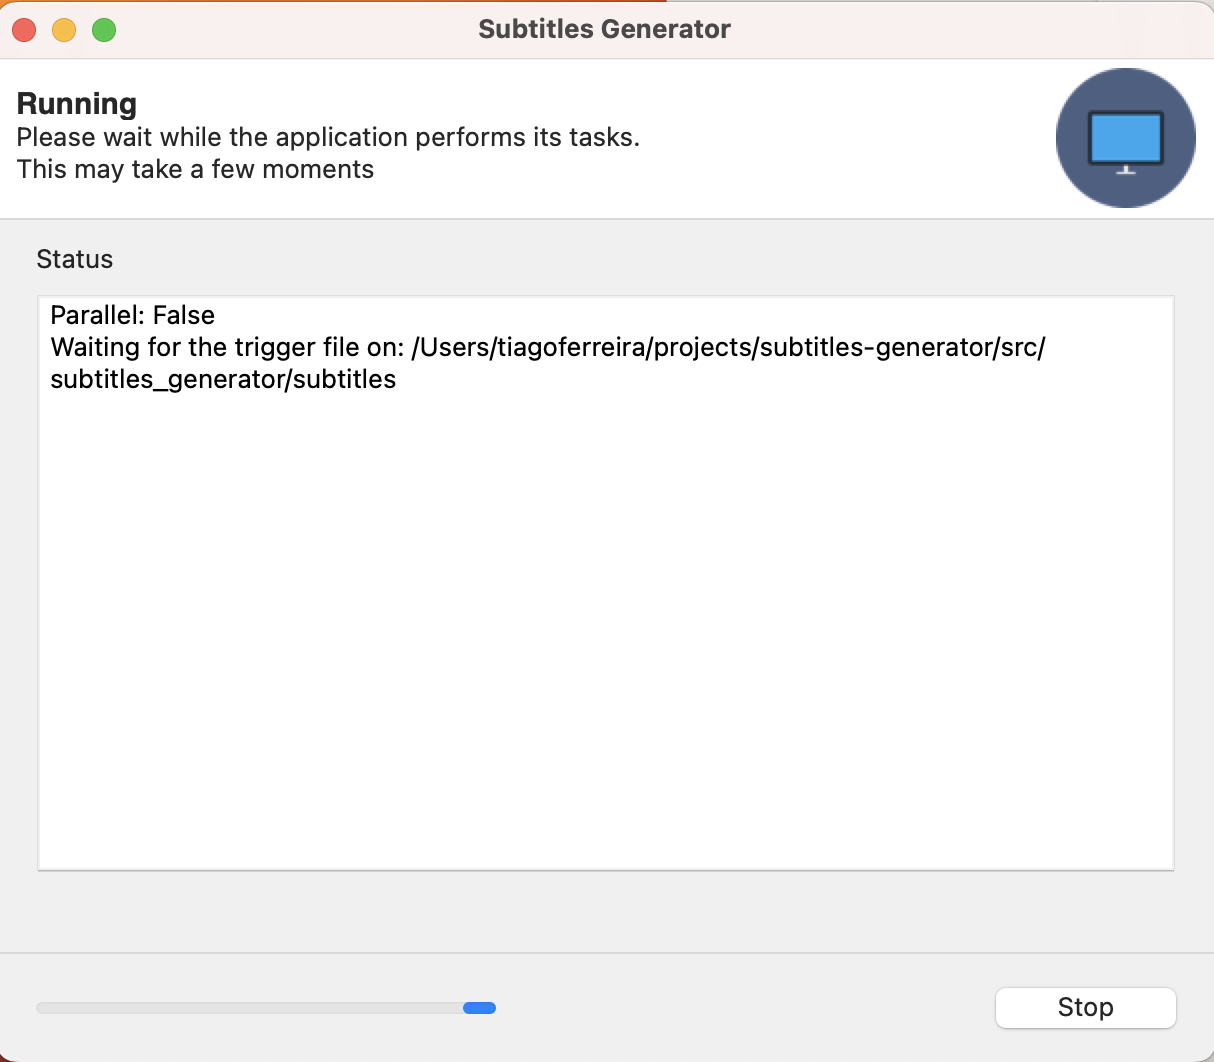
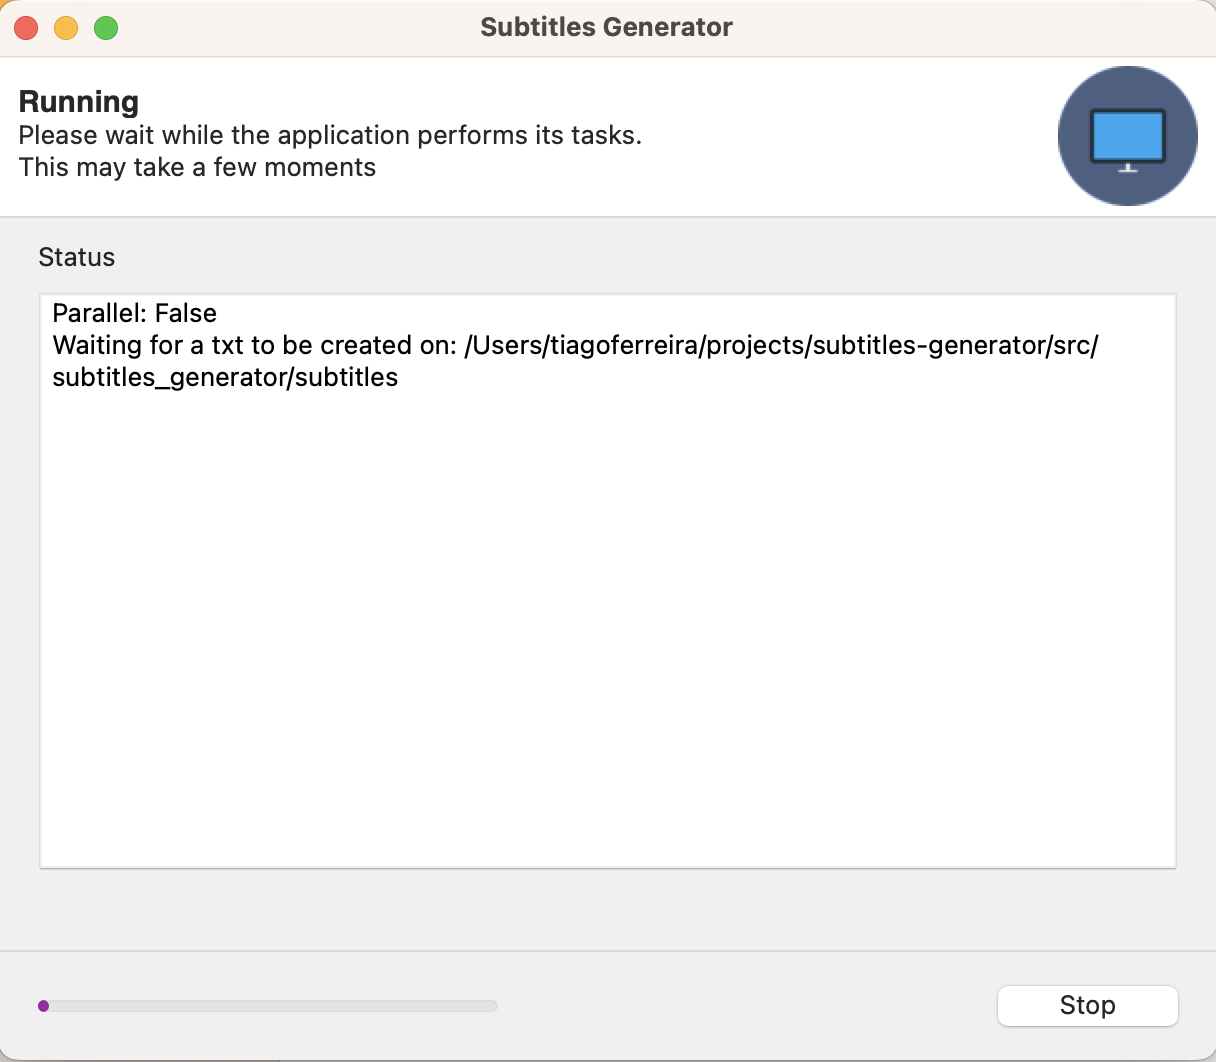
ReadMe and GUI updates / Added recursive flag

diff --git a/src/subtitles_generator/main.py b/src/subtitles_generator/main.py
@@ -2,6 +2,7 @@ import time
 import typer
 import os
 
+from faster_whisper.tokenizer import _LANGUAGE_CODES
 from pathlib import Path
 from watchdog.observers import Observer
 from thread import Handler
@@ -17,15 +18,29 @@ def call_event(
             file_trigger: str = typer.Argument(".txt", help="Trigger file extension"),
             file_type: str = typer.Argument("mp3", help="Type of file to watch"),
             parallel: bool = typer.Argument(False, help="Use processes to handle multiple files"),
-                ) -> None:
+            recursive: bool = typer.Argument(False, help="If events will be emitted for sub-directories traversed recursively")
+            )-> None:
+    
+    # Still doing these checks for users who don't use GUI
+    try:
+        directory = Path(directory)
+        if not directory.exists() or not directory.is_dir():
+            raise FileNotFoundError(f"The directory {directory} does not exist or is not a directory.")
+
+        if language not in _LANGUAGE_CODES:
+            raise ValueError(f"Language '{language}' is not supported. Available languages: {', '.join(_LANGUAGE_CODES)}")
+    except Exception as e:
+        print(f"\nError: {e}\n")
+        return
+
     observer = Observer()
     handler = Handler(language=language, directory=directory, file_trigger=file_trigger, file_type=file_type, parallel=parallel)
 
-    observer.schedule(handler, str(directory), recursive=False)
+    observer.schedule(handler, str(directory), recursive=recursive)
     observer.start()
 
     print(f"Parallel: {parallel}")
-    print(f"Waiting for the trigger file on: {directory}")
+    print(f"Waiting for a {file_trigger} to be created on: {directory}")
 
     try:
         while True:

diff --git a/src/subtitles_generator/gui.py b/src/subtitles_generator/gui.py
@@ -1,17 +1,21 @@
 # gui.py
 from gooey import Gooey, GooeyParser
 from main import call_event  # your Typer function; safe to call directly
+from faster_whisper.tokenizer import _LANGUAGE_CODES
+
+COMMON_TYPES = ["txt", "md", "csv", "json", "xml", "yaml", "yml", "pdf", "docx", "xlsx"]
 
 @Gooey(program_name="Subtitles Generator")
 def main():
     p = GooeyParser(description="Watch a folder and generate subtitles for each file in it.")
     
     # Args
-    p.add_argument("language", default="en")
-    p.add_argument("directory", widget="DirChooser")
-    p.add_argument("file_trigger", default=".txt")
-    p.add_argument("file_type", default="mp3")
-    p.add_argument("--parallel", action="store_true", help="Process files in parallel")
+    p.add_argument("language", choices=_LANGUAGE_CODES, default="en", help="Language for subtitles generation")
+    p.add_argument("directory", widget="DirChooser", help="Directory to watch for new files")
+    p.add_argument("file_trigger", choices=COMMON_TYPES, default="txt", help="File type to trigger the program when created.")
+    p.add_argument("file_type", default="mp3", help="Type of file to process (e.g., mp3, wav, etc.)")
+    p.add_argument("--parallel", action="store_true", help=" Process files in parallel")
+    p.add_argument("--recursive", action="store_true", help=" Will watch for sub-directories traversed recursively")
     
     args = p.parse_args()
 

diff --git a/src/subtitles_generator/whisper_functions.py b/src/subtitles_generator/whisper_functions.py
@@ -37,7 +37,7 @@ def _generate_subtitles(audio_file: Path, language: str = "en", directory: str =
         print(f"Transcribing {audio_file.name}...")
         segments, _ = MODEL.transcribe(str(audio_file), language=language)
     except Exception as e:
-        print(f"\nError processing {audio_file.name}: {e}")
+        print(f"\nError processing {audio_file.name}: {e}\n Wrong file format?")
         return
 
     # Write SRT manually from faster_whisper segments

diff --git a/src/subtitles_generator/thread.py b/src/subtitles_generator/thread.py
@@ -25,5 +25,6 @@ class Handler(FileSystemEventHandler):
 
     def on_created(self, event):
         path = Path(event.src_path)
-        if path.suffix.lower() == self.file_trigger and path.is_file():
+
+        if path.suffix.lower()[+1:] == self.file_trigger and path.is_file():
             action(self.language, self.directory, self.file_type, self.parallel)

diff --git a/README.md b/README.md
@@ -1,6 +1,8 @@
-# 🎙 Whisper AI Subtitle Generator
+# 🎙 Fast Whisper AI Subtitle Generator
 
-Generate subtitles from speech using [Whisper AI](https://github.com/openai/whisper).
+Generate subtitles from audio files using [Fast Whisper AI](https://github.com/SYSTRAN/faster-whisper).
+
+ATTENTION: Just like any other speech-to-text LLM, it may produce transcription errors.
 
 ## How does it work?
 
@@ -16,6 +18,26 @@ Then, you can apply those subtitles to your videos:
 
 - `.srt` files are simpler and supported by most video players.
 - `.ass` files are more polished and can include advanced styling (as shown above).
+
+---
+## Requirements
+
+If you want to do it without using Makefile you would need the following to run the project:
+
+- Python
+- Poetry
+
+Go to the project's root and run the following command:
+
+```bash
+poetry install
+```
+
+After this you should be able to execute:
+
+```bash
+poetry run python src/subtitles_generator/gui.py
+```
 
 ---
 
@@ -38,12 +60,23 @@ make run
 
 ---
 
+## Python command
+
+If you don't want to use the GUI you may use:
+
+```bash
+poetry run python src/subtitles_generator/main.py <language> <directory> <trigger_filet> <audio_format> <parallel> <recursive>
+```
+
+
+---
+
 ## GUI
 
 The program uses **Gooey** for the graphical interface.  
 You should see a layout similar to this:
 
-![GUI](prints/gooey.png)
+![GUI](prints/layout.png)
 
 ### Parameter descriptions
 
@@ -51,9 +84,10 @@ You should see a layout similar to this:
 |-----------------|-------------|
 | **language**    | The language you want Whisper to interpret |
 | **directory**   | The directory the program will watch |
-| **file_type**   | The file type you want to generate subtitles from (e.g., `.mp3`) |
+| **file_type**   | The file type you want to generate subtitles from (e.g., `mp3`) ffmpeg is almost capable of consuming any kind of audio file |
 | **file_trigger**| When detected, the program starts searching for files with the `file_type` you specified |
 | **parallel**    | If enabled, processes all detected files simultaneously (performance depends on your computer) |
+| **recursive**    | If enabled, it will also watch for sub-directories traversed recursively |
 
 ---
 
@@ -69,7 +103,7 @@ You should see a layout similar to this:
 
    ![txt](prints/txt.png)
 
-4. Once the trigger file is detected, processing begins.
+4. Once the trigger file is detected, processing begins. The process may take some time all depends on how many files and their size.
 
    ![reading](prints/reading.png)
 
